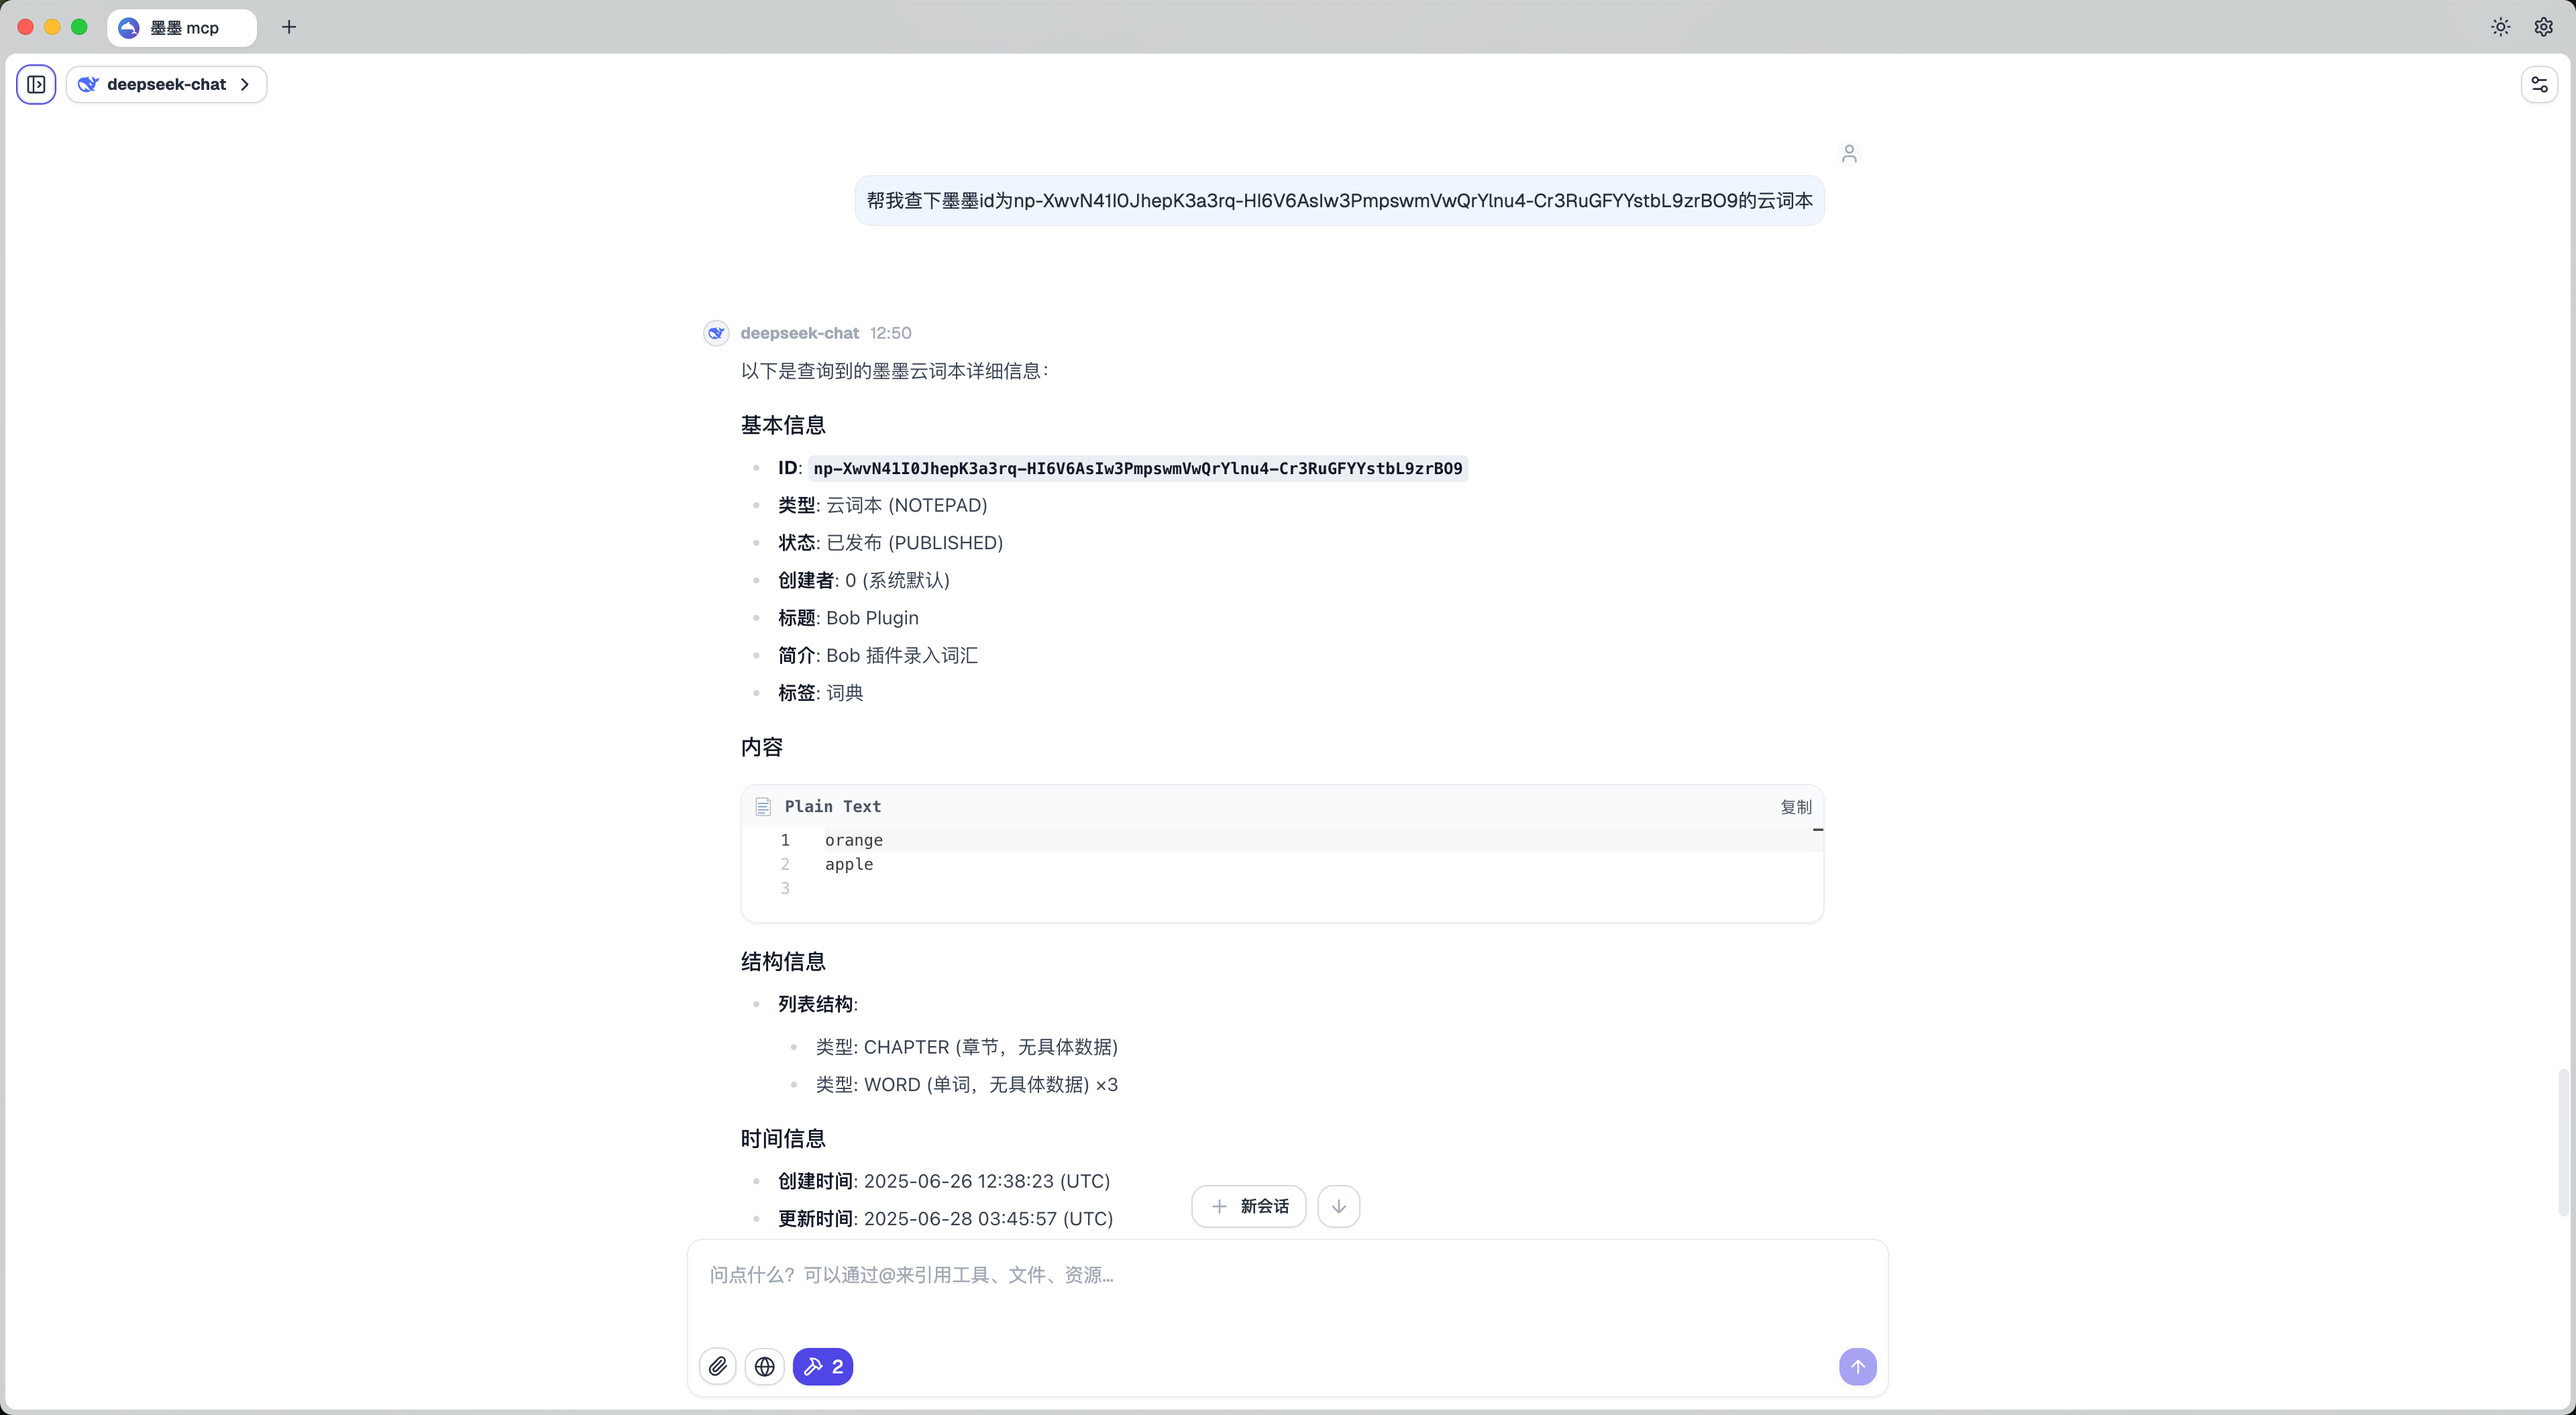
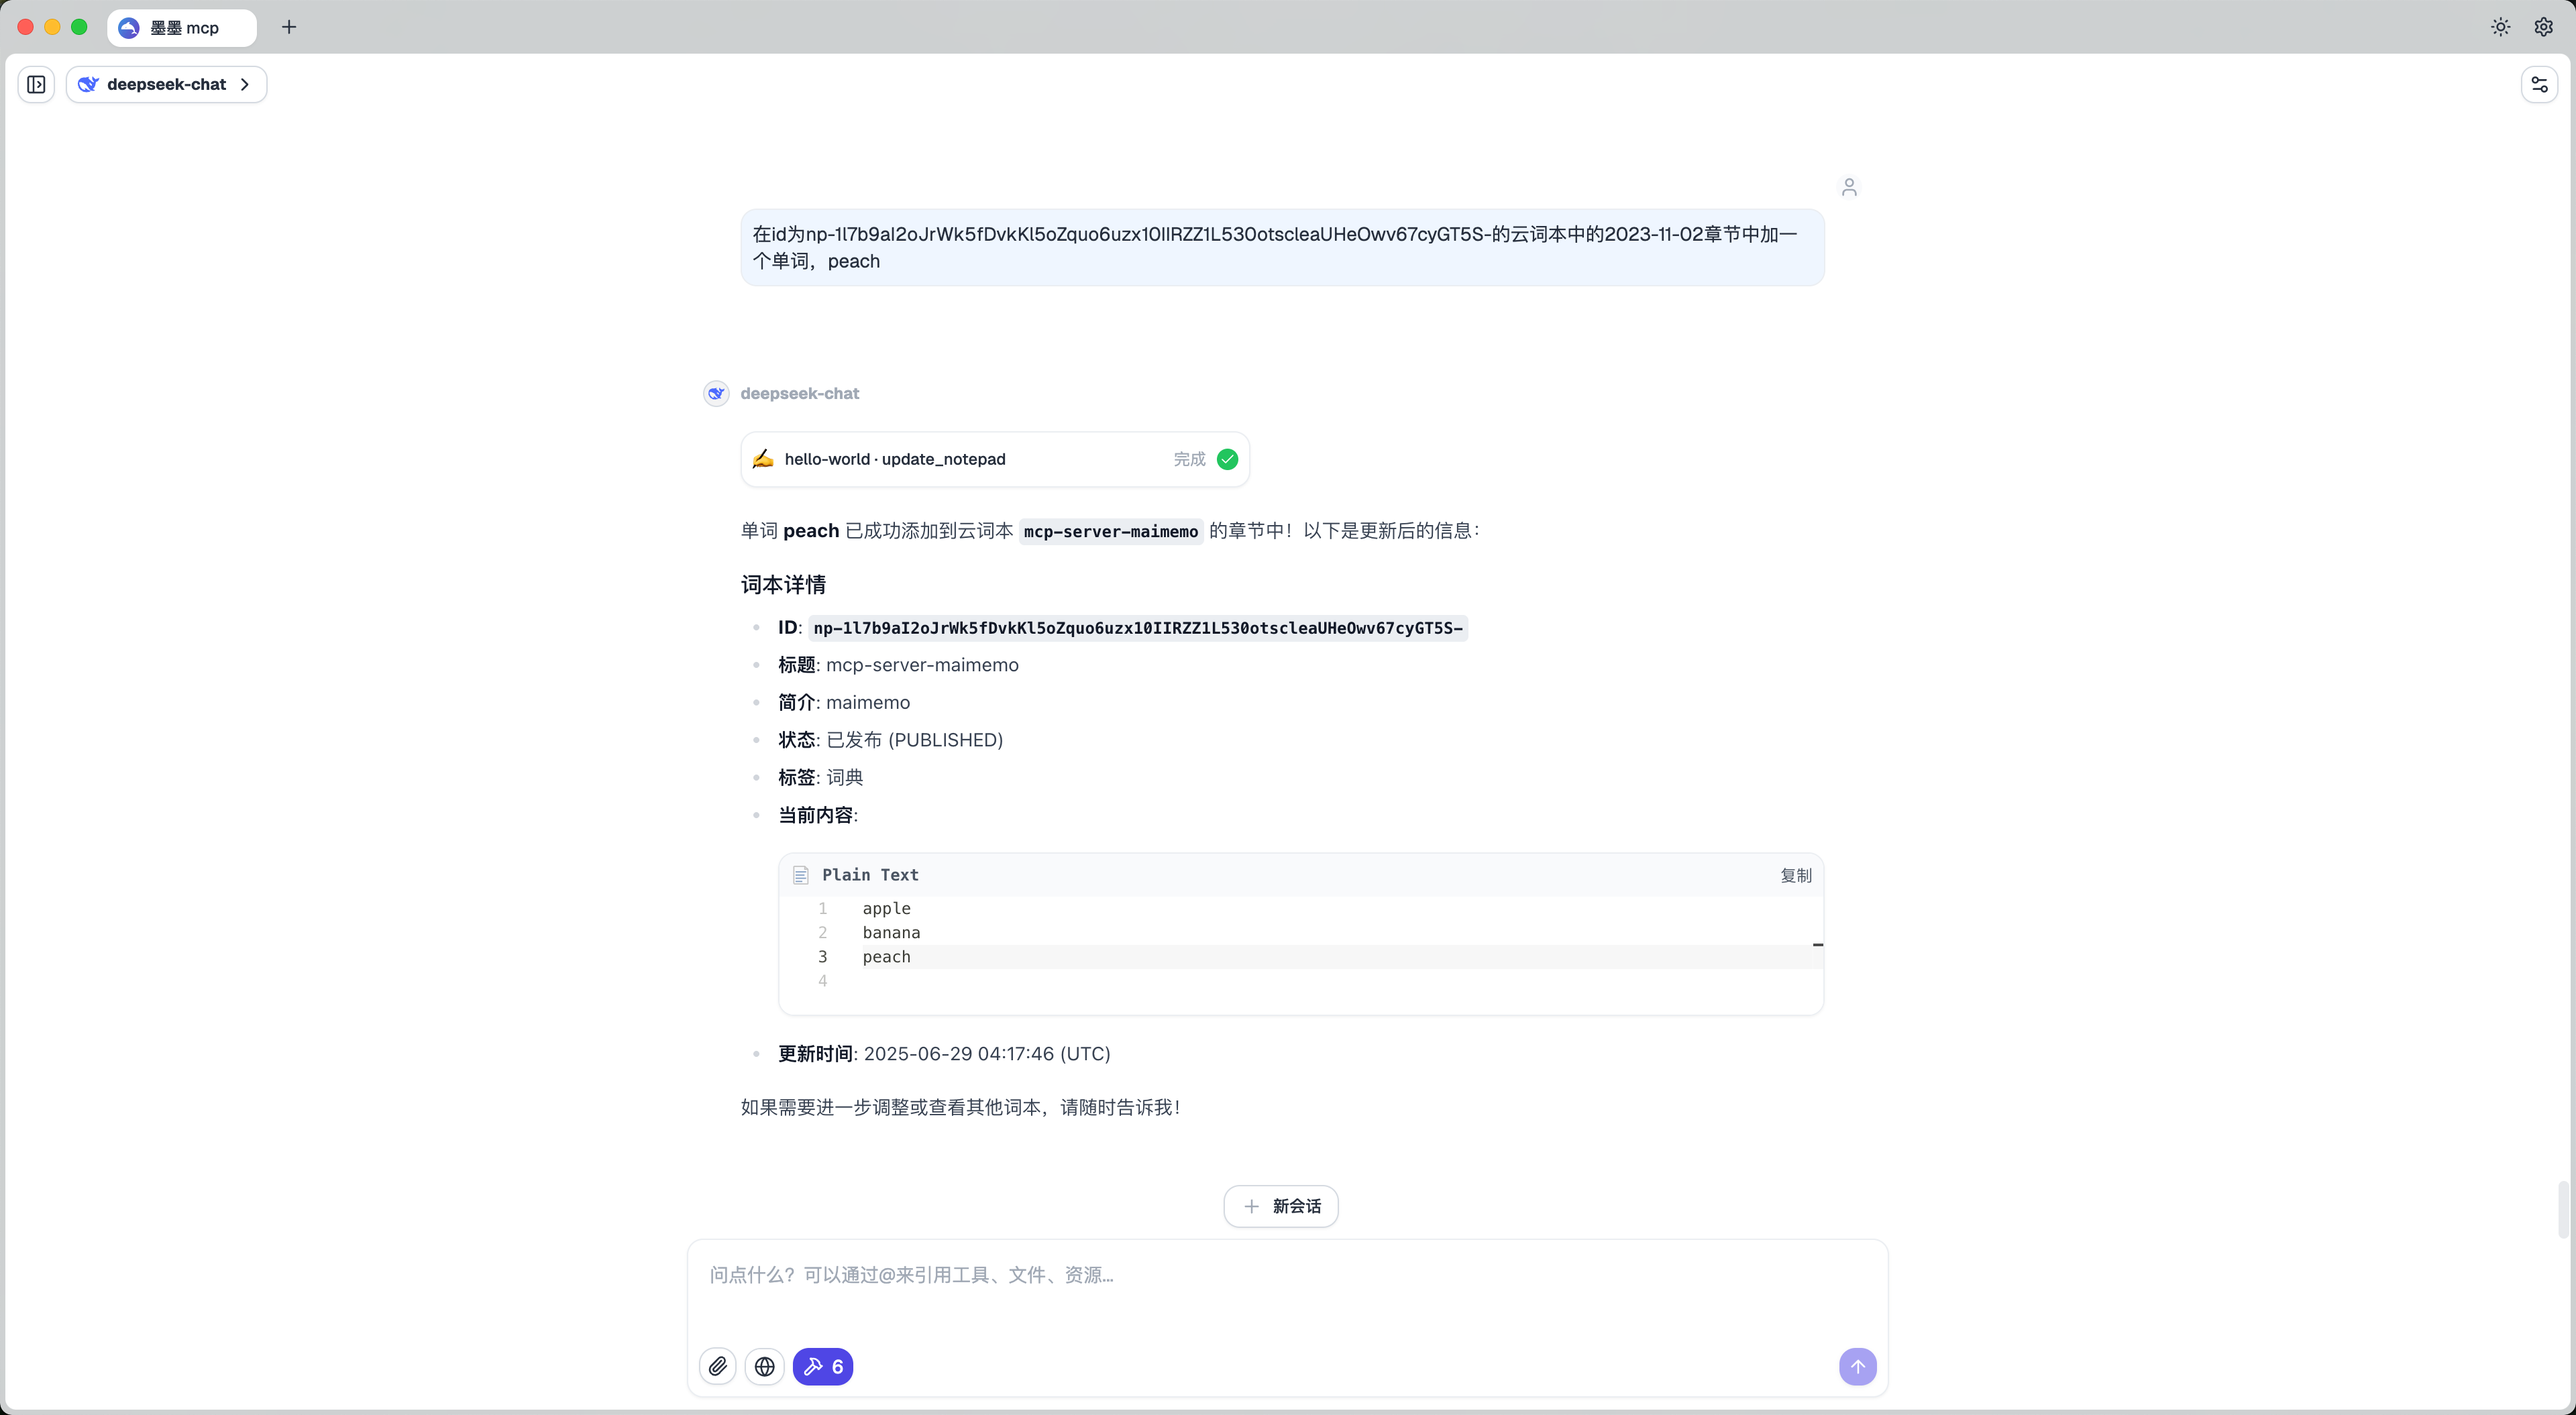
feat: add notepad implement

diff --git a/tools.go b/tools.go
@@ -2,7 +2,6 @@ package main
 
 import (
 	"context"
-	"encoding/json"
 
 	"github.com/modelcontextprotocol/go-sdk/mcp"
 )
@@ -13,8 +12,53 @@ func SayHiTool() *mcp.ServerTool {
 	))
 }
 
+func ListNotepadsTool() *mcp.ServerTool {
+	return mcp.NewServerTool("list_notepads", "查询墨墨云词本", ListNotepad, mcp.Input(
+		mcp.Property("ids", mcp.Required(false), mcp.Description("云词本 id 列表")),
+		mcp.Property("limit", mcp.Required(true), mcp.Description("每页数量")),
+		mcp.Property("offset", mcp.Required(true), mcp.Description("偏移量")),
+	))
+}
+
+func CreateNotepadTool() *mcp.ServerTool {
+	return mcp.NewServerTool("create_notepad", "创建墨墨云词本", CreateNotepad, mcp.Input(
+		mcp.Property("status",
+			mcp.Required(true),
+			mcp.Enum("PUBLISHED", "UNPUBLISHED", "DELETED"),
+			mcp.Description("状态"),
+		),
+		mcp.Property("chapter_name", mcp.Required(false), mcp.Description("章节名称")),
+		mcp.Property("words", mcp.Required(true), mcp.Description("章节中的单词列表")),
+		mcp.Property("title", mcp.Required(true), mcp.Description("标题")),
+		mcp.Property("brief", mcp.Required(true), mcp.Description("摘要")),
+		mcp.Property("tags", mcp.Required(true), mcp.Description("标签")),
+	))
+}
+
 func GetNotepadTool() *mcp.ServerTool {
-	return mcp.NewServerTool("get_notepad", "根据云词本 id 获取指定的墨墨云词本", GetNotepad, mcp.Input(
+	return mcp.NewServerTool("get_notepad", "获取墨墨云词本", GetNotepad, mcp.Input(
+		mcp.Property("notepad_id", mcp.Required(true), mcp.Description("云词本 id")),
+	))
+}
+
+func UpdateNotepadTool() *mcp.ServerTool {
+	return mcp.NewServerTool("update_notepad", "更新墨墨云词本", UpdateNotepad, mcp.Input(
+		mcp.Property("notepad_id", mcp.Required(true), mcp.Description("云词本 id")),
+		mcp.Property("status",
+			mcp.Required(true),
+			mcp.Enum("PUBLISHED", "UNPUBLISHED", "DELETED"),
+			mcp.Description("状态"),
+		),
+		mcp.Property("chapter_name", mcp.Required(false), mcp.Description("章节名称")),
+		mcp.Property("words", mcp.Required(true), mcp.Description("章节中的单词列表")),
+		mcp.Property("title", mcp.Required(true), mcp.Description("标题")),
+		mcp.Property("brief", mcp.Required(true), mcp.Description("摘要")),
+		mcp.Property("tags", mcp.Required(true), mcp.Description("标签")),
+	))
+}
+
+func DeleteNotepadTool() *mcp.ServerTool {
+	return mcp.NewServerTool("delete_notepad", "删除墨墨云词本", DeleteNotepad, mcp.Input(
 		mcp.Property("notepad_id", mcp.Required(true), mcp.Description("云词本 id")),
 	))
 }
@@ -29,6 +73,42 @@ func SayHi(ctx context.Context, cc *mcp.ServerSession, params *mcp.CallToolParam
 	}, nil
 }
 
+type ListNotepadParams struct {
+	Ids    []string `json:"ids"`
+	Limit  int      `json:"limit"`
+	Offset int      `json:"offset"`
+}
+
+// 查询云词本
+func ListNotepad(ctx context.Context, cc *mcp.ServerSession, params *mcp.CallToolParamsFor[ListNotepadParams]) (*mcp.CallToolResultFor[any], error) {
+	notepadList, err := DefaultMaimemoClient.ListNotepads(params.Arguments.Ids, params.Arguments.Limit, params.Arguments.Offset)
+	if err != nil {
+		return nil, err
+	}
+
+	return OriginToTextContent(notepadList)
+}
+
+type CreateNotepadParams struct {
+	Status      string   `json:"status"`
+	ChapterName string   `json:"chapter_name"`
+	Words       []string `json:"words"`
+	Title       string   `json:"title"`
+	Brief       string   `json:"brief"`
+	Tags        []string `json:"tags"`
+}
+
+// 创建云词本
+func CreateNotepad(ctx context.Context, cc *mcp.ServerSession, params *mcp.CallToolParamsFor[CreateNotepadParams]) (*mcp.CallToolResultFor[any], error) {
+	content := FormateNotepadContent(params.Arguments.ChapterName, params.Arguments.Words)
+	notepad, err := DefaultMaimemoClient.CreateNotepad(params.Arguments.Status, content, params.Arguments.Title, params.Arguments.Brief, params.Arguments.Tags)
+	if err != nil {
+		return nil, err
+	}
+
+	return OriginToTextContent(notepad)
+}
+
 type GetNotepadParams struct {
 	NotepadId string `json:"notepad_id"`
 }
@@ -40,12 +120,39 @@ func GetNotepad(ctx context.Context, cc *mcp.ServerSession, params *mcp.CallTool
 		return nil, err
 	}
 
-	text, err := json.Marshal(notepad)
+	return OriginToTextContent(notepad)
+}
+
+type UpdateNotepadParams struct {
+	NotepadId   string   `json:"notepad_id"`
+	Status      string   `json:"status"`
+	ChapterName string   `json:"chapter_name"`
+	Words       []string `json:"words"`
+	Title       string   `json:"title"`
+	Brief       string   `json:"brief"`
+	Tags        []string `json:"tags"`
+}
+
+// 更新云词本
+func UpdateNotepad(ctx context.Context, cc *mcp.ServerSession, params *mcp.CallToolParamsFor[UpdateNotepadParams]) (*mcp.CallToolResultFor[any], error) {
+	content := FormateNotepadContent(params.Arguments.ChapterName, params.Arguments.Words)
+	notepad, err := DefaultMaimemoClient.UpdateNotepad(params.Arguments.NotepadId, params.Arguments.Status, content, params.Arguments.Title, params.Arguments.Brief, params.Arguments.Tags)
 	if err != nil {
 		return nil, err
 	}
 
-	return &mcp.CallToolResultFor[any]{
-		Content: []mcp.Content{&mcp.TextContent{Text: string(text)}},
-	}, nil
+	return OriginToTextContent(notepad)
+}
+
+type DeleteNotepadParams struct {
+	NotepadId string `json:"notepad_id"`
+}
+
+func DeleteNotepad(ctx context.Context, cc *mcp.ServerSession, params *mcp.CallToolParamsFor[DeleteNotepadParams]) (*mcp.CallToolResultFor[any], error) {
+	notepad, err := DefaultMaimemoClient.DeleteNotepad(params.Arguments.NotepadId)
+	if err != nil {
+		return nil, err
+	}
+
+	return OriginToTextContent(notepad)
 }

diff --git a/models.go b/models.go
@@ -14,20 +14,6 @@ type Error struct {
 	Info    string `json:"info"`
 }
 
-// BriefNotepad 简要云词本数据结构
-// 对应墨墨开放 API 文档：https://open.maimemo.com/#/schemas/BriefNotepad
-type BriefNotepad struct {
-	ID        string    `json:"id"`                                 // 词本唯一标识
-	Type      Type      `json:"type"`                               // 词本类型，参见 NotepadType
-	Creator   int       `json:"creator"`                            // 创建者用户ID
-	Status    Status    `json:"status"`                             // 词本状态，参见 NotepadStatus
-	Title     string    `json:"title"`                              // 词本标题
-	Brief     string    `json:"brief"`                              // 词本简介
-	Tags      []string  `json:"tags"`                               // 关联标签列表
-	CreatedAt time.Time `json:"created_time" time_format:"iso8601"` // 创建时间（ISO8601格式）
-	UpdatedAt time.Time `json:"updated_time" time_format:"iso8601"` // 更新时间（ISO8601格式）
-}
-
 /*
 示例数据结构：
 {
@@ -50,7 +36,7 @@ type Notepad struct {
 	Type      Type         `json:"type"`                               // 词本类型，参见 NotepadType
 	Creator   int          `json:"creator"`                            // 创建者 ID
 	Status    Status       `json:"status"`                             // 词本状态，参见 NotepadStatus
-	Content   string       `json:"content"`                            // 词本内容（Markdown 格式）
+	Content   string       `json:"content,omitempty"`                  // 词本内容（Markdown 格式）
 	Title     string       `json:"title"`                              // 词本标题
 	Brief     string       `json:"brief"`                              // 词本简介
 	Tags      []string     `json:"tags"`                               // 标签列表

diff --git a/maimemo.go b/maimemo.go
@@ -42,14 +42,18 @@ func (client *MaimemoClient) Close() error {
 // 云词本
 //
 // 查询云词本
-func (c *MaimemoClient) ListNotepads(ids []string, limit, offset int) ([]BriefNotepad, error) {
-	var resp Response[struct{ Notepads []BriefNotepad }]
+func (c *MaimemoClient) ListNotepads(ids []string, limit, offset int) ([]*Notepad, error) {
+	queryParams := map[string]string{
+		"limit":  fmt.Sprintf("%d", limit),
+		"offset": fmt.Sprintf("%d", offset),
+	}
+	if len(ids) > 0 {
+		queryParams["ids"] = strings.Join(ids, ",")
+	}
+
+	var resp Response[struct{ Notepads []*Notepad }]
 	_, err := c.cli.R().
-		SetQueryParams(map[string]string{
-			"ids":    strings.Join(ids, ","),
-			"limit":  fmt.Sprintf("%d", limit),
-			"offset": fmt.Sprintf("%d", offset),
-		}).
+		SetQueryParams(queryParams).
 		SetResult(&resp).
 		Get("/notepads")
 
@@ -60,16 +64,8 @@ func (c *MaimemoClient) ListNotepads(ids []string, limit, offset int) ([]BriefNo
 	return resp.Data.Notepads, nil
 }
 
-func FormatNotepadContent(chapterName string, words []string) string {
-	content := strings.Join(words, ",")
-	if chapterName != "" {
-		content = fmt.Sprintf("# %s\n%s", chapterName, content)
-	}
-	return content
-}
-
 // 创建云词本
-func (c *MaimemoClient) CreateNotepad(status, content, title, brief string, tags []string) error {
+func (c *MaimemoClient) CreateNotepad(status, content, title, brief string, tags []string) (*Notepad, error) {
 	var resp Response[struct{ Notepad *Notepad }]
 	_, err := c.cli.R().
 		SetBody(map[string]any{
@@ -85,10 +81,10 @@ func (c *MaimemoClient) CreateNotepad(status, content, title, brief string, tags
 		Post("/notepads")
 
 	if err != nil || !resp.Success {
-		return fmt.Errorf("创建云词本失败, error: %w", err)
+		return nil, fmt.Errorf("创建云词本失败, error: %w", err)
 	}
 
-	return nil
+	return resp.Data.Notepad, nil
 }
 
 // 获取云词本

diff --git a/utils.go b/utils.go
@@ -1,0 +1,36 @@
+package main
+
+import (
+	"encoding/json"
+	"fmt"
+	"strings"
+
+	"github.com/modelcontextprotocol/go-sdk/mcp"
+)
+
+func FormateNotepadContent(chapterName string, words []string) string {
+	content := strings.Join(words, ",")
+	if chapterName != "" {
+		content = fmt.Sprintf("# %s\n%s", chapterName, content)
+	}
+
+	return content
+}
+
+func OriginToTextContent(origin interface{}) (*mcp.CallToolResultFor[any], error) {
+	text, ok := origin.(string)
+	if ok {
+		return &mcp.CallToolResultFor[any]{
+			Content: []mcp.Content{&mcp.TextContent{Text: string(text)}},
+		}, nil
+	}
+
+	bytes, err := json.Marshal(origin)
+	if err != nil {
+		return nil, err
+	}
+
+	return &mcp.CallToolResultFor[any]{
+		Content: []mcp.Content{&mcp.TextContent{Text: string(bytes)}},
+	}, nil
+}

diff --git a/main.go b/main.go
@@ -12,7 +12,11 @@ func main() {
 	server := mcp.NewServer("greeter", "v1.0.0", nil)
 	server.AddTools(
 		SayHiTool(),
+		ListNotepadsTool(),
+		CreateNotepadTool(),
 		GetNotepadTool(),
+		UpdateNotepadTool(),
+		DeleteNotepadTool(),
 	)
 	// Run the server over stdin/stdout, until the client disconnects
 	if err := server.Run(context.Background(), mcp.NewStdioTransport()); err != nil {

diff --git a/README.md b/README.md
@@ -8,8 +8,12 @@ Maimemo MCP Server 是一个基于 [墨墨背单词](https://open.maimemo.com) A
 
 ## 🛠 Tools
 
-* `greet`: 一个简单的问候工具，用于测试服务是否正常运行。
-* `get_notepad`: 根据提供的云词本 ID 获取指定的墨墨云词本。
+### 云词本
+* `list_notepads`: 查询云词本。
+* `create_notepad`: 创建云词本。
+* `get_notepad`: 获取云词本。
+* `update_notepad`: 更新云词本。
+* `delete_notepad`: 删除云词本。
 
 ## 🖼 Preview
 
@@ -47,6 +51,13 @@ Maimemo MCP Server 是一个基于 [墨墨背单词](https://open.maimemo.com) A
         }
     }
     ```
+## ✅ 待办事项
+
+- [ ] 释义
+- [ ] 助记
+- [x] 云词本
+- [ ] 例句
+- [ ] 单词
 
 ## 🤝 贡献
 
